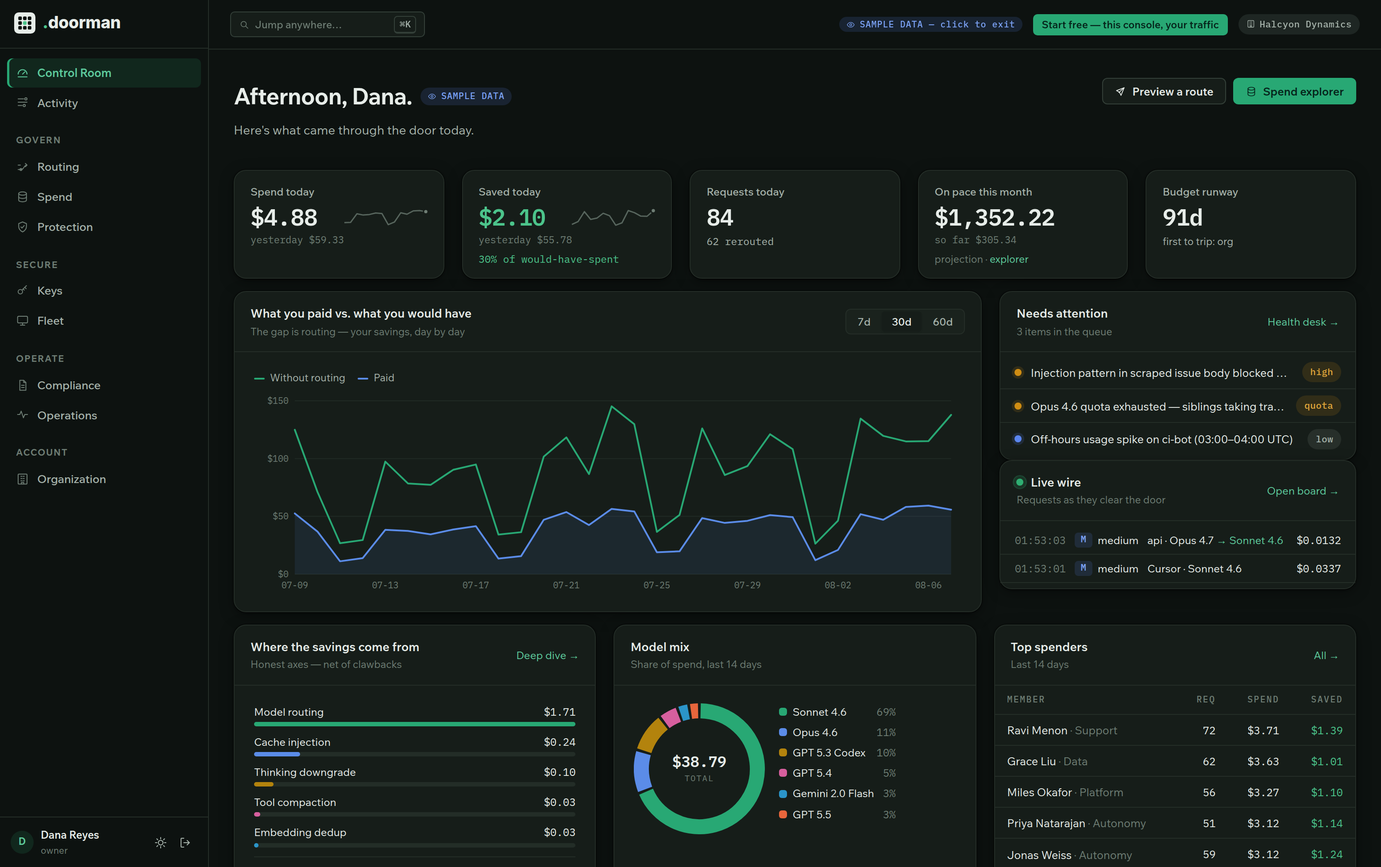
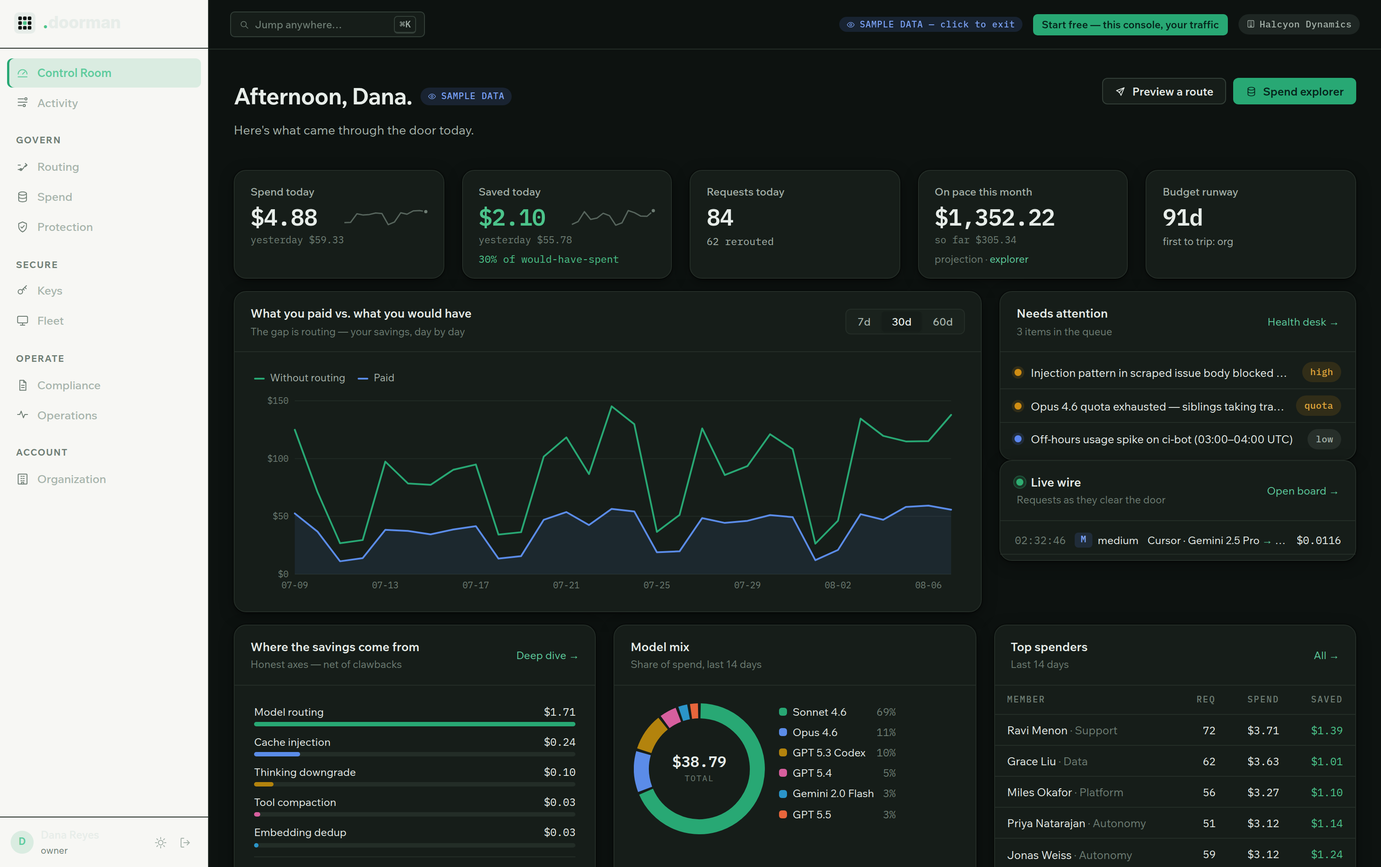
grey rail, white content

Changed region(s): [[0.0, 0.0, 0.1554, 1.0], [0.7462, 0.6224, 0.9016, 0.6847], [0.9327, 0.6536, 0.9638, 0.6847]]

diff --git a/assets/index-Cmy8_mK4.css b/assets/index-Cmy8_mK4.css
@@ -1,0 +1,1 @@
+:root{--bg:#fff;--surface:#fff;--surface-2:#fcfcfa;--surface-3:#f3f3f0;--ink:#18201b;--ink-2:#565b53;--ink-3:#878c84;--line:#e6e6e3;--line-2:#d2d3cf;--shadow:0 0 0 1px #14181408, 0 1px 3px #1418140f, 0 10px 28px #14181412;--shadow-lg:0 4px 12px #14181417, 0 16px 48px #14181424;--brand:#193d2b;--brand-ink:#24563c;--brand-hover:#24563c;--brand-soft:#193d2b14;--brand-ring:#193d2b59;--on-brand:#eaf7ef;--ok:#1e8a55;--ok-mark:#22a061;--ok-soft:#1e8a551f;--warn:#b66a10;--warn-mark:#cf8514;--warn-soft:#b66a1021;--danger:#c43c35;--danger-mark:#d2493f;--danger-soft:#c43c351c;--info:#175cd3;--info-mark:#2970ff;--info-soft:#2970ff1a;--neutral-soft:#4f5a5417;--s1:#0b7a50;--s2:#2f6bc4;--s3:#b98104;--s4:#c13d7f;--s5:#0e87b0;--s6:#d9481f;--s7:#7053d6;--s8:#6b7f1f;--seq-1:#5eb98e;--seq-2:#3aa578;--seq-3:#1c9063;--seq-4:#0b7a50;--seq-5:#086044;--seq-6:#064a35;--seq-7:#053827;--grid:#ecefeb;--axis:#d3d9d2;--tick:#909a93;--font-display:"Wix Madefor Text", -apple-system, BlinkMacSystemFont, system-ui, sans-serif;--font-body:"Wix Madefor Text", -apple-system, BlinkMacSystemFont, "Segoe UI", sans-serif;--font-mono:"IBM Plex Mono", ui-monospace, "SF Mono", Menlo, monospace;--r-sm:6px;--r-md:10px;--r-lg:14px;--sidebar-w:236px;--topbar-h:56px;--ease:cubic-bezier(.2, .7, .3, 1);--lightningcss-light:initial;--lightningcss-dark: ;color-scheme:light}[data-theme=night]{--bg:#0d1210;--surface:#161d19;--surface-2:#1a221d;--surface-3:#232d27;--ink:#e7ede9;--ink-2:#a6b3ab;--ink-3:#6e7d74;--line:#242d27;--line-2:#333f38;--shadow:0 0 0 1px #00000040, 0 1px 2px #0006, 0 4px 16px #00000059;--shadow-lg:0 4px 12px #00000080, 0 16px 48px #0000008c;--brand:#28a874;--brand-ink:#5ecb9d;--brand-hover:#31b57f;--brand-soft:#28a87424;--brand-ring:#28a87473;--on-brand:#05231a;--ok:#4cc48b;--ok-mark:#2fae72;--ok-soft:#2fae7229;--warn:#e0a63a;--warn-mark:#cf8d13;--warn-soft:#cf8d1326;--danger:#f07b6e;--danger-mark:#e05a4b;--danger-soft:#e05a4b26;--info:#7ba2f5;--info-mark:#5b86ef;--info-soft:#5b86ef26;--neutral-soft:#a6b3ab1f;--s1:#28a874;--s2:#5b8ce8;--s3:#b3830d;--s4:#d75f9e;--s5:#2b95c9;--s6:#e8663c;--s7:#8f7ae8;--s8:#8a9b35;--seq-1:#1e5f45;--seq-2:#277756;--seq-3:#319068;--seq-4:#3da87a;--seq-5:#55bd90;--seq-6:#7fd0aa;--seq-7:#abe2c7;--grid:#202a24;--axis:#333f38;--tick:#6e7d74;--lightningcss-light: ;--lightningcss-dark:initial;color-scheme:dark}*{box-sizing:border-box}html,body{height:100%;margin:0;padding:0}body{background:var(--bg);color:var(--ink);font-family:var(--font-body);-webkit-font-smoothing:antialiased;text-rendering:optimizelegibility;font-size:13px;line-height:1.5}#root{min-height:100vh}::selection{background:#1e8a552e}a{color:var(--brand-ink);text-decoration:none}a:hover{text-underline-offset:2px;text-decoration:underline}:focus-visible{outline:2px solid var(--brand-ring);outline-offset:2px;border-radius:4px}::-webkit-scrollbar{width:10px;height:10px}::-webkit-scrollbar-thumb{background:var(--line-2);border:2px solid var(--bg);border-radius:6px}::-webkit-scrollbar-track{background:0 0}@media (prefers-reduced-motion:reduce){*,:before,:after{transition-duration:.01ms!important;animation-duration:.01ms!important}}.h-display{font-family:var(--font-display);letter-spacing:-.02em;font-weight:700;line-height:1.12}h1,.h1{font-family:var(--font-display);letter-spacing:-.024em;margin:0;font-size:26px;font-weight:700}h2,.h2{font-family:var(--font-display);letter-spacing:-.01em;margin:0;font-size:16px;font-weight:600}h3,.h3{font-family:var(--font-body);margin:0;font-size:13.5px;font-weight:600}.overline{font-family:var(--font-mono);text-transform:uppercase;letter-spacing:.14em;color:var(--ink-3);font-size:10.5px;font-weight:500}.muted{color:var(--ink-2)}.faint{color:var(--ink-3)}.small{font-size:12px}.tiny{font-size:11px}.mono{font-family:var(--font-mono)}.num{font-family:var(--font-mono);font-variant-numeric:tabular-nums}.right{text-align:right}.center{text-align:center}.nowrap{white-space:nowrap}.ellipsis{text-overflow:ellipsis;white-space:nowrap;overflow:hidden}.pos{color:var(--ok)}.neg{color:var(--danger)}.brand-ink{color:var(--brand-ink)}.row{align-items:center;display:flex}.col{flex-direction:column;display:flex}.wrap{flex-wrap:wrap}.flex1{flex:auto;min-width:0}.gap2{gap:2px}.gap4{gap:4px}.gap6{gap:6px}.gap8{gap:8px}.gap10{gap:10px}.gap12{gap:12px}.gap16{gap:16px}.gap20{gap:20px}.gap24{gap:24px}.between{justify-content:space-between}.end{justify-content:flex-end}.top{align-items:flex-start}.baseline{align-items:baseline}.grid{gap:20px;display:grid}.grid.cols-2{grid-template-columns:repeat(2,minmax(0,1fr))}.grid.cols-3{grid-template-columns:repeat(3,minmax(0,1fr))}.grid.cols-4{grid-template-columns:repeat(4,minmax(0,1fr))}.grid.cols-5{grid-template-columns:repeat(5,minmax(0,1fr))}.grid.cols-6{grid-template-columns:repeat(6,minmax(0,1fr))}@media (width<=1280px){.grid.cols-4,.grid.cols-5,.grid.cols-6{grid-template-columns:repeat(3,minmax(0,1fr))}}@media (width<=980px){.grid.cols-3,.grid.cols-4,.grid.cols-5,.grid.cols-6{grid-template-columns:repeat(2,minmax(0,1fr))}}@media (width<=680px){.grid.cols-2,.grid.cols-3,.grid.cols-4,.grid.cols-5,.grid.cols-6{grid-template-columns:1fr}}.shell{min-height:100vh;display:flex}.sidebar{width:var(--sidebar-w);flex:0 0 var(--sidebar-w);border-right:1px solid var(--line);z-index:30;background:#f7f7f4;flex-direction:column;height:100vh;display:flex;position:sticky;top:0}.sidebar-head{border-bottom:1px solid var(--line);padding:14px 16px 10px}.sidebar-nav{flex:1;padding:10px 8px 16px;overflow-y:auto}.sidebar-foot{border-top:1px solid var(--line);padding:10px 12px}.nav-group{margin-bottom:4px}.nav-group-label{font-family:var(--font-mono);text-transform:uppercase;letter-spacing:.16em;color:var(--ink-3);-webkit-user-select:none;user-select:none;padding:10px 10px 4px;font-size:10px;font-weight:500}.nav-item{border-radius:var(--r-sm);color:var(--ink-2);cursor:pointer;text-align:left;width:100%;transition:background .12s var(--ease), color .12s var(--ease);background:0 0;border:none;align-items:center;gap:9px;margin:1px 0;padding:6px 10px;font-size:13px;font-weight:450;text-decoration:none;display:flex}.nav-item:hover{background:var(--surface-3);color:var(--ink);text-decoration:none}.nav-item.active{background:var(--brand-soft);color:var(--brand-ink);box-shadow:inset 2.5px 0 0 var(--brand);font-weight:550}.nav-item.active .nav-ico{color:var(--brand-ink)}.nav-ico{width:15px;height:15px;color:var(--ink-3);flex:0 0 15px;display:inline-flex}.nav-badge{font-family:var(--font-mono);background:var(--surface-3);color:var(--ink-3);border-radius:99px;margin-left:auto;padding:1px 6px;font-size:10px}.topbar{height:var(--topbar-h);border-bottom:1px solid var(--line);background:color-mix(in srgb, var(--bg) 88%, transparent);-webkit-backdrop-filter:blur(8px);backdrop-filter:blur(8px);z-index:20;align-items:center;gap:12px;padding:0 24px;display:flex;position:sticky;top:0}.subnav{border-bottom:1px solid var(--line);background:var(--surface);scrollbar-width:none;align-items:center;gap:2px;padding:0 24px;display:flex;overflow-x:auto}.subnav::-webkit-scrollbar{display:none}.subnav a{color:var(--ink-2);white-space:nowrap;border-bottom:2px solid #0000;margin-bottom:-1px;padding:9px 12px;font-size:12.5px;font-weight:500;text-decoration:none;transition:color .12s}.subnav a:hover{color:var(--ink);text-decoration:none}.subnav a.on{color:var(--brand-ink);border-bottom-color:var(--brand);font-weight:600}.main{flex-direction:column;flex:1;min-width:0;display:flex}.page{width:100%;max-width:1480px;margin:0 auto;padding:32px 28px 44px}.page-header{margin-bottom:20px}.page-title-row{flex-wrap:wrap;justify-content:space-between;align-items:flex-start;gap:16px;display:flex}.page-desc{color:var(--ink-2);max-width:760px;margin-top:6px;font-size:14px;line-height:1.6}.card{background:var(--surface);border:1px solid var(--line);border-radius:var(--r-lg);box-shadow:var(--shadow)}.card-pad{padding:20px 22px}.card-head{border-bottom:1px solid var(--line);justify-content:space-between;align-items:center;gap:12px;padding:13px 18px;display:flex}.card-head .select{width:auto;min-width:132px}.card-head .input{width:auto}.card-title{font-family:var(--font-display);letter-spacing:0;font-size:13.5px;font-weight:600}.card-sub{color:var(--ink-3);margin-top:1px;font-size:11.5px}.well{background:var(--surface-2);border:1px solid var(--line);border-radius:var(--r-md);padding:12px 14px}.stat{min-width:0;padding:14px 18px 12px}.stat-label{color:var(--ink-2);align-items:center;gap:6px;font-size:12px;font-weight:450;display:flex}.stat-value{font-family:var(--font-mono);letter-spacing:-.02em;color:var(--ink);margin-top:4px;font-size:26px;font-weight:600;line-height:1.2}.stat-value .unit{color:var(--ink-3);font-size:15px;font-weight:450}.stat-delta{align-items:center;gap:6px;margin-top:3px;font-size:11.5px;display:flex}.hero-num{font-family:var(--font-mono);letter-spacing:-.03em;font-size:48px;font-weight:600;line-height:1.05}.btn{font-family:var(--font-body);border-radius:var(--r-sm);cursor:pointer;white-space:nowrap;transition:background .12s var(--ease), border-color .12s var(--ease), color .12s var(--ease), transform 60ms;-webkit-user-select:none;user-select:none;border:1px solid #0000;justify-content:center;align-items:center;gap:7px;padding:6px 13px;font-size:12.5px;font-weight:550;text-decoration:none;display:inline-flex}.btn:active{transform:translateY(.5px)}.btn:disabled{opacity:.5;cursor:not-allowed}.btn-primary{background:var(--brand);color:var(--on-brand)}.btn-primary:hover{background:var(--brand-hover)}.btn-secondary{background:var(--surface);color:var(--ink);border-color:var(--line-2)}.btn-secondary:hover{background:var(--surface-3)}.btn-ghost{color:var(--ink-2);background:0 0}.btn-ghost:hover{background:var(--surface-3);color:var(--ink)}.btn-danger{color:var(--danger);border-color:color-mix(in srgb, var(--danger-mark) 45%, transparent);background:0 0}.btn-danger:hover{background:var(--danger-soft)}.btn-sm{border-radius:5px;padding:3.5px 9px;font-size:11.5px}.btn-lg{border-radius:var(--r-md);padding:9px 20px;font-size:13.5px}.iconbtn{border-radius:var(--r-sm);width:28px;height:28px;color:var(--ink-2);cursor:pointer;background:0 0;border:none;justify-content:center;align-items:center;display:inline-flex}.iconbtn:hover{background:var(--surface-3);color:var(--ink)}.badge{font-family:var(--font-mono);letter-spacing:.02em;white-space:nowrap;border:1px solid #0000;border-radius:99px;align-items:center;gap:5px;padding:2px 8px;font-size:10.5px;font-weight:500;display:inline-flex}.badge.ok{background:var(--ok-soft);color:var(--ok)}.badge.warn{background:var(--warn-soft);color:var(--warn)}.badge.danger{background:var(--danger-soft);color:var(--danger)}.badge.info{background:var(--info-soft);color:var(--info)}.badge.neutral{background:var(--neutral-soft);color:var(--ink-2)}.badge.brand{background:var(--brand-soft);color:var(--brand-ink)}.badge.outline{border-color:var(--line-2);color:var(--ink-2);background:0 0}.lamp{border-radius:99px;flex:0 0 8px;width:8px;height:8px;position:relative}.lamp.ok{background:var(--ok-mark);box-shadow:0 0 0 3px var(--ok-soft)}.lamp.warn{background:var(--warn-mark);box-shadow:0 0 0 3px var(--warn-soft)}.lamp.danger{background:var(--danger-mark);box-shadow:0 0 0 3px var(--danger-soft)}.lamp.info{background:var(--info-mark);box-shadow:0 0 0 3px var(--info-soft)}.lamp.neutral{background:var(--ink-3);box-shadow:0 0 0 3px var(--neutral-soft)}.lamp.pulse:after{content:"";opacity:0;border:1.5px solid;border-radius:99px;animation:2.2s ease-out infinite lampPulse;position:absolute;inset:-3px}.lamp.ok.pulse:after{color:var(--ok-mark)}.lamp.danger.pulse:after{color:var(--danger-mark)}@keyframes lampPulse{0%{opacity:.7;transform:scale(.6)}70%{opacity:0;transform:scale(1.5)}to{opacity:0}}.tier-plate{font-family:var(--font-mono);letter-spacing:.02em;border:1px solid #0000;border-radius:4px;justify-content:center;align-items:center;width:20px;height:17px;font-size:10px;font-weight:600;display:inline-flex}.tier-plate.simple{background:var(--neutral-soft);color:var(--ink-2)}.tier-plate.medium{background:var(--info-soft);color:var(--info)}.tier-plate.complex{background:var(--warn-soft);color:var(--warn)}.tier-plate.max{background:var(--danger-soft);color:var(--danger)}.table-wrap{border-radius:0 0 var(--r-lg) var(--r-lg);overflow-x:auto}table.tbl{border-collapse:collapse;width:100%;font-size:12.5px}.tbl thead th{font-family:var(--font-mono);text-transform:uppercase;letter-spacing:.12em;color:var(--ink-3);text-align:left;border-bottom:1px solid var(--line);white-space:nowrap;background:var(--surface);z-index:1;padding:8px 14px;font-size:10px;font-weight:500;position:sticky;top:0}.tbl thead th.sortable{cursor:pointer;-webkit-user-select:none;user-select:none}.tbl thead th.sortable:hover{color:var(--ink)}.tbl tbody td{border-bottom:1px solid var(--line);vertical-align:middle;padding:7px 14px}.tbl tbody tr:last-child td{border-bottom:none}.tbl tbody tr{transition:background 90ms}.tbl tbody tr:hover{background:var(--surface-2)}.tbl tbody tr.clickable{cursor:pointer}.tbl .num{font-size:12px}.tbl-empty{text-align:center;color:var(--ink-3);padding:32px}.field{flex-direction:column;gap:5px;min-width:0;display:flex}.field-label{color:var(--ink);align-items:center;gap:6px;font-size:12px;font-weight:550;display:flex}.field-hint{color:var(--ink-3);font-size:11.5px}.input,.select,textarea.input{font-family:var(--font-body);color:var(--ink);background:var(--surface);border:1px solid var(--line-2);border-radius:var(--r-sm);width:100%;padding:7px 10px;font-size:13px;transition:border-color .12s,box-shadow .12s}.input.mono{font-family:var(--font-mono);font-size:12.5px}.input:focus,.select:focus,textarea.input:focus{border-color:var(--brand);box-shadow:0 0 0 3px var(--brand-soft);outline:none}.input::placeholder{color:var(--ink-3)}.select{appearance:none;background-image:linear-gradient(45deg, transparent 50%, var(--ink-3) 50%), linear-gradient(135deg, var(--ink-3) 50%, transparent 50%);background-position:calc(100% - 16px) 55%,calc(100% - 11px) 55%;background-repeat:no-repeat;background-size:5px 5px;padding-right:28px}.toggle{background:var(--line-2);cursor:pointer;width:34px;height:19px;transition:background .14s var(--ease);border:none;border-radius:99px;flex:0 0 34px;position:relative}.toggle:after{content:"";background:var(--surface);width:15px;height:15px;transition:transform .14s var(--ease);border-radius:99px;position:absolute;top:2px;left:2px;box-shadow:0 1px 2px #00000040}.toggle.on{background:var(--brand)}.toggle.on:after{transform:translate(15px)}.toggle:disabled{opacity:.5;cursor:not-allowed}.seg{background:var(--surface-2);border:1px solid var(--line);border-radius:var(--r-sm);gap:2px;padding:2px;display:inline-flex}.seg button{font-family:var(--font-body);color:var(--ink-2);cursor:pointer;background:0 0;border:none;border-radius:4px;padding:4px 11px;font-size:12px;font-weight:500;transition:background .12s,color .12s}.seg button.on{background:var(--surface);color:var(--ink);box-shadow:0 1px 2px #00000014}.seg button:hover:not(.on){color:var(--ink)}.modal-backdrop{-webkit-backdrop-filter:blur(2px);backdrop-filter:blur(2px);z-index:100;animation:fadeIn .14s var(--ease);background:#14120e73;justify-content:center;align-items:flex-start;padding:8vh 20px 20px;display:flex;position:fixed;inset:0}.modal{background:var(--surface);border:1px solid var(--line);border-radius:var(--r-lg);box-shadow:var(--shadow-lg);width:100%;max-width:560px;max-height:82vh;animation:riseIn .16s var(--ease);flex-direction:column;display:flex;overflow:hidden}.modal.wide{max-width:860px}.modal-body{padding:18px;overflow-y:auto}.modal-foot{border-top:1px solid var(--line);justify-content:flex-end;gap:8px;padding:12px 18px;display:flex}.drawer-backdrop{z-index:100;animation:fadeIn .14s var(--ease);background:#14120e59;position:fixed;inset:0}.drawer{z-index:101;background:var(--surface);border-left:1px solid var(--line);width:min(560px,92vw);box-shadow:var(--shadow-lg);animation:slideIn .18s var(--ease);flex-direction:column;display:flex;position:fixed;top:0;bottom:0;right:0}.drawer-body{flex:1;padding:18px;overflow-y:auto}@keyframes fadeIn{0%{opacity:0}}@keyframes riseIn{0%{opacity:0;transform:translateY(10px)scale(.99)}}@keyframes slideIn{0%{opacity:.5;transform:translate(24px)}}.toast-stack{z-index:200;flex-direction:column;gap:8px;display:flex;position:fixed;bottom:18px;right:18px}.toast{background:var(--ink);color:var(--bg);border-radius:var(--r-md);box-shadow:var(--shadow-lg);max-width:380px;animation:riseIn .16s var(--ease);align-items:center;gap:10px;padding:10px 14px;font-size:12.5px;font-weight:500;display:flex}.toast.err{background:var(--danger-mark);color:#fff}.banner{border-radius:var(--r-md);border:1px solid;align-items:center;gap:10px;padding:8px 14px;font-size:12.5px;display:flex}.banner.warn{background:var(--warn-soft);border-color:color-mix(in srgb, var(--warn-mark) 35%, transparent);color:var(--warn)}.banner.info{background:var(--info-soft);border-color:color-mix(in srgb, var(--info-mark) 30%, transparent);color:var(--info)}.banner.danger{background:var(--danger-soft);border-color:color-mix(in srgb, var(--danger-mark) 32%, transparent);color:var(--danger)}.skl{background:linear-gradient(100deg, var(--surface-2) 40%, var(--surface-3) 50%, var(--surface-2) 60%);border-radius:var(--r-sm);background-size:200% 100%;min-height:12px;animation:1.4s linear infinite shimmer}@keyframes shimmer{to{background-position:-200% 0}}.empty{text-align:center;color:var(--ink-2);flex-direction:column;justify-content:center;align-items:center;gap:8px;padding:44px 24px;display:flex}.empty svg{opacity:.5}.empty .empty-title{font-family:var(--font-display);color:var(--ink);font-size:14px;font-weight:600}.meter{background:var(--surface-3);border-radius:99px;height:6px;position:relative;overflow:hidden}.meter>i{background:var(--brand);height:100%;transition:width .4s var(--ease);border-radius:99px;display:block}.meter.ok>i{background:var(--ok-mark)}.meter.warn>i{background:var(--warn-mark)}.meter.danger>i{background:var(--danger-mark)}.meter .tick{background:var(--surface);opacity:.9;width:1.5px;position:absolute;top:0;bottom:0}.stat-prev{color:var(--ink-3);font-size:11px;font-family:var(--font-mono);margin-top:2px}.code{font-family:var(--font-mono);background:var(--surface-2);border:1px solid var(--line);border-radius:var(--r-md);white-space:pre;padding:12px 14px;font-size:12px;line-height:1.6;position:relative;overflow-x:auto}kbd{font-family:var(--font-mono);border:1px solid var(--line-2);background:var(--surface);color:var(--ink-2);border-bottom-width:2px;border-radius:4px;padding:1.5px 5px;font-size:10.5px}.tabs{border-bottom:1px solid var(--line);gap:2px;margin-bottom:16px;display:flex;overflow-x:auto}.tabs button{font-family:var(--font-body);color:var(--ink-2);cursor:pointer;white-space:nowrap;background:0 0;border:none;border-bottom:2px solid #0000;margin-bottom:-1px;padding:8px 13px;font-size:12.5px;font-weight:500;transition:color .12s}.tabs button:hover{color:var(--ink)}.tabs button.on{color:var(--brand-ink);border-bottom-color:var(--brand);font-weight:600}.kv{grid-template-columns:minmax(120px,max-content) 1fr;gap:6px 18px;font-size:12.5px;display:grid}.kv dt{color:var(--ink-3)}.kv dd{color:var(--ink);overflow-wrap:anywhere;min-width:0;margin:0}.palette-backdrop{z-index:150;background:#14120e66;justify-content:center;align-items:flex-start;padding-top:14vh;animation:.1s fadeIn;display:flex;position:fixed;inset:0}.palette{background:var(--surface);border:1px solid var(--line);border-radius:var(--r-lg);width:min(600px,92vw);box-shadow:var(--shadow-lg);animation:riseIn .13s var(--ease);overflow:hidden}.palette input{width:100%;font-family:var(--font-body);color:var(--ink);border:none;border-bottom:1px solid var(--line);background:0 0;outline:none;padding:14px 18px;font-size:14.5px}.palette-list{max-height:46vh;padding:6px;overflow-y:auto}.palette-item{border-radius:var(--r-sm);cursor:pointer;color:var(--ink-2);align-items:center;gap:10px;padding:8px 12px;font-size:13px;display:flex}.palette-item.hot{background:var(--brand-soft);color:var(--brand-ink)}.palette-item .crumb{font-family:var(--font-mono);color:var(--ink-3);margin-left:auto;font-size:10px}.viztip{z-index:300;pointer-events:none;background:var(--ink);color:var(--bg);box-shadow:var(--shadow-lg);border-radius:7px;max-width:300px;padding:7px 10px;font-size:11.5px;line-height:1.45;position:fixed}.viztip .tt-title{font-family:var(--font-mono);opacity:.7;margin-bottom:3px;font-size:10px}.viztip .tt-row{justify-content:space-between;align-items:center;gap:6px;display:flex}.viztip .tt-row .num{font-family:var(--font-mono)}.viztip .sw{border-radius:2px;flex:0 0 7px;width:7px;height:7px;display:inline-block}.legend{color:var(--ink-2);flex-wrap:wrap;gap:4px 14px;font-size:11.5px;display:flex}.legend .lg-item{cursor:default;align-items:center;gap:6px;display:inline-flex}.legend .sw{border-radius:3px;width:9px;height:9px;display:inline-block}.legend .lg-line{border-radius:2px;width:12px;height:2px;display:inline-block}.steps{align-items:center;gap:8px;display:flex}.step{color:var(--ink-3);align-items:center;gap:8px;font-size:12px;display:flex}.step .dot{width:20px;height:20px;font-family:var(--font-mono);border:1px solid var(--line-2);background:var(--surface);border-radius:99px;justify-content:center;align-items:center;font-size:10.5px;display:inline-flex}.step.done .dot{background:var(--ok-soft);color:var(--ok);border-color:#0000}.step.now{color:var(--ink);font-weight:550}.step.now .dot{background:var(--brand);color:var(--on-brand);border-color:#0000}.step-rail{background:var(--line-2);width:22px;height:1px}.nobackend{font-family:var(--font-mono);background:repeating-linear-gradient(-45deg, var(--warn-soft), var(--warn-soft) 6px, transparent 6px, transparent 10px);border:1px dashed var(--warn-mark);color:var(--warn);letter-spacing:.04em;border-radius:6px;align-items:center;gap:6px;padding:3px 9px;font-size:10.5px;font-weight:600;display:inline-flex}.samplechip{font-family:var(--font-mono);background:var(--info-soft);color:var(--info);letter-spacing:.05em;border-radius:99px;align-items:center;gap:5px;padding:2px 8px;font-size:10px;font-weight:500;display:inline-flex}.auth-wrap{grid-template-columns:minmax(420px,44%) 1fr;min-height:100vh;display:grid}@media (width<=900px){.auth-wrap{grid-template-columns:1fr}.auth-art{display:none}}.auth-panel{background:var(--surface);border-right:1px solid var(--line);flex-direction:column;padding:28px 48px;display:flex}.auth-art{background:var(--bg);position:relative;overflow:hidden}.auth-card{width:100%;max-width:360px;margin:auto}.feed-row{animation:feedIn .26s var(--ease)}@keyframes feedIn{0%{opacity:0;background:var(--brand-soft);transform:translateY(-6px)}}.diff-line{font-family:var(--font-mono);white-space:pre-wrap;overflow-wrap:anywhere;padding:1px 10px;font-size:11.5px}.diff-line.add{background:var(--ok-soft);color:var(--ok)}.diff-line.del{background:var(--danger-soft);color:var(--danger)}.diff-line.ctx{color:var(--ink-3)}.lpl{--l-bg:#fff;--l-surface:#fcfcfa;--l-raised:#fff;--l-ink:#18201b;--l-mut:#4d524b;--l-soft:#878c84;--l-line:#1418121a;--l-line-strong:#14181229;--l-forest:#193d2b;--l-forest-2:#24563c;--l-protected:#1e8a55;--l-shadow:0 28px 80px #1b2a2033, 0 3px 12px #1b2a201f;min-height:100vh;color:var(--l-ink);--ink:#193d2b;--bg:#fff;--brand:#7ee2b0;background:radial-gradient(circle at 90% 20%,#1e8a550d,#1e8a5500 36%),#fff;font-family:Wix Madefor Text,-apple-system,BlinkMacSystemFont,Segoe UI,sans-serif;font-size:16px;font-weight:400;line-height:1.5;overflow-x:hidden}.lpl-wrap{max-width:1280px;margin:0 auto;padding-left:24px;padding-right:24px}.lpl-white{color:var(--l-ink)}.lpl-nav{z-index:60;-webkit-backdrop-filter:blur(24px)saturate(140%);backdrop-filter:blur(24px)saturate(140%);border-bottom:1px solid var(--l-line);background:#ffffffd9;height:73px;position:fixed;top:0;left:0;right:0}.lpl-nav-in{justify-content:space-between;align-items:center;height:73px;display:flex}.lpl-nav-links{align-items:center;gap:26px;display:flex}.lpl-nav-links a,.lpl-ghostlink{color:var(--l-mut);cursor:pointer;background:0 0;border:none;padding:0;font-family:inherit;font-size:13px;text-decoration:none}.lpl-nav-links a:hover,.lpl-ghostlink:hover{color:var(--l-ink);text-decoration:none}.lpl-pill{background:var(--l-forest);color:#eaf7ef;cursor:pointer;transition:background .12s var(--ease);border:none;border-radius:9999px;padding:8px 16px;font-family:inherit;font-size:13px;font-weight:500;box-shadow:0 4px 12px #193d2b40}.lpl-pill:hover{background:var(--l-forest-2)}.lpl-pill:disabled{opacity:.6;cursor:default}.lpl-ghost{background:var(--l-raised);color:var(--l-ink);border:1px solid var(--l-line-strong);cursor:pointer;transition:border-color .12s var(--ease);border-radius:9999px;padding:8px 16px;font-family:inherit;font-size:13px;font-weight:500}.lpl-ghost:hover{border-color:#193d2b73}.lpl-pill-lg{padding:12px 22px;font-size:15px}.lpl-hero{padding-top:268px}.lpl-hero h1{letter-spacing:-.022em;color:var(--l-ink);margin:0 0 40px;font-size:clamp(44px,4.6vw,64px);font-weight:700;line-height:1}.lpl-hero-row{flex-wrap:wrap;justify-content:space-between;align-items:baseline;gap:24px;display:flex}.lpl-sub{color:var(--l-mut);max-width:56ch;margin:0;font-size:17px;line-height:1.5}.lpl-newlink{cursor:pointer;color:var(--l-mut);white-space:nowrap;background:0 0;border:none;padding:0;font-family:inherit;font-size:15px}.lpl-newlink:hover{color:var(--l-forest-2)}.lpl-window-wrap{margin-top:64px}.lpl-window{background:var(--l-raised);border:1px solid var(--l-line-strong);box-shadow:var(--l-shadow);border-radius:14px;overflow:hidden}.lpl-window img{width:100%;height:auto;display:block}.lpl-state{padding-top:160px}.lpl-state h2{letter-spacing:-.022em;color:var(--l-mut);text-wrap:balance;max-width:1250px;margin:0 0 48px;font-size:clamp(32px,3.4vw,48px);font-weight:700;line-height:1.08}.lpl-cards{grid-template-columns:1fr 1fr;align-items:start;gap:20px;display:grid}@media (width<=860px){.lpl-cards{grid-template-columns:1fr}}.lpl-card{background:var(--l-raised);border:1px solid var(--l-line);border-radius:14px;overflow:hidden;box-shadow:0 12px 40px #1b2a201a}.lpl-card img{width:100%;height:auto;display:block}.lpl-card-cap{color:var(--l-mut);border-top:1px solid var(--l-line);padding:14px 18px;font-size:13px}.lpl-card-full{max-width:100%}.lpl-play{background:var(--l-raised);border:1px solid var(--l-line);border-radius:14px;padding:16px 18px;box-shadow:0 12px 40px #1b2a201a}.lpl-play-in{flex-wrap:wrap;gap:12px;display:flex}.lpl-play-in input{background:var(--l-surface);min-width:240px;color:var(--l-ink);border:1px solid var(--l-line-strong);border-radius:10px;flex:1;padding:10px 14px;font-family:inherit;font-size:14px}.lpl-play-in input:focus{border-color:var(--l-protected);outline:none}.lpl-play-out{border-top:1px solid var(--l-line);color:var(--l-mut);margin-top:14px;padding-top:14px;font-size:15px}.lpl-statsband{background:linear-gradient(140deg, var(--l-forest) 0%, #143122 70%);box-shadow:var(--l-shadow);border:none;border-radius:18px;grid-template-columns:repeat(3,1fr);gap:20px;margin-top:160px;padding:44px 46px;display:grid}@media (width<=700px){.lpl-statsband{grid-template-columns:1fr}}.lpl-stat{letter-spacing:-.022em;color:#f2faf5;font-size:48px;font-weight:700;line-height:1.1}.lpl-statl{color:#b9d5c4;margin-top:6px;font-size:13px}.lpl-cta{padding-top:140px;padding-bottom:120px}.lpl-cta h2{letter-spacing:-.022em;margin:0 0 32px;font-size:clamp(32px,3.4vw,48px);font-weight:510;line-height:1.08}.lpl-cta-row{flex-wrap:wrap;gap:12px;display:flex}.lpl-footer{border-top:1px solid var(--l-line);flex-wrap:wrap;justify-content:space-between;align-items:center;gap:16px;padding-top:24px;padding-bottom:40px;display:flex}.lpl-nav-left{align-items:center;gap:30px;display:flex}.lpl-nav-menus{gap:6px}.lpl-menu{position:relative}.lpl-menubtn{cursor:pointer;color:var(--l-mut);background:0 0;border:none;border-radius:8px;align-items:center;gap:5px;padding:8px 10px;font-family:inherit;font-size:13px;text-decoration:none;display:inline-flex}.lpl-menubtn:hover,.lpl-menubtn.on{color:var(--l-ink);background:#18201b0f;text-decoration:none}.lpl-caret{opacity:.7;font-size:9px}.lpl-menupanel{z-index:70;background:var(--l-raised);border:1px solid var(--l-line);border-radius:14px;flex-direction:column;gap:2px;min-width:300px;padding:8px;animation:.12s fadeIn;display:flex;position:absolute;top:40px;left:0;box-shadow:0 24px 70px #1b2a202e}.lpl-menuitem{text-align:left;cursor:pointer;background:0 0;border:none;border-radius:8px;flex-direction:column;gap:1px;padding:9px 12px;font-family:inherit;display:flex}.lpl-menuitem:hover{background:#18201b0f}.lpl-mi-t{color:var(--l-ink);font-size:13.5px;font-weight:500}.lpl-mi-d{color:var(--l-mut);font-size:12px}@media (width<=940px){.lpl-nav-menus{display:none}}.lpl-grid3{grid-template-columns:repeat(3,1fr);gap:16px;display:grid}.lpl-grid4{grid-template-columns:repeat(4,1fr);gap:16px;display:grid}@media (width<=980px){.lpl-grid3,.lpl-grid4{grid-template-columns:repeat(2,1fr)}}@media (width<=640px){.lpl-grid3,.lpl-grid4{grid-template-columns:1fr}}.lpl-tile{background:var(--l-raised);border:1px solid var(--l-line);border-radius:14px;flex-direction:column;gap:8px;padding:20px 22px;display:flex;box-shadow:0 8px 30px #1b2a2012}.lpl-tile-t{color:var(--l-ink);letter-spacing:-.01em;font-size:15px;font-weight:600}.lpl-tile-d{color:var(--l-mut);font-size:13.5px;line-height:1.55}.lpl-pricing{align-items:stretch}.lpl-price{gap:6px}.lpl-price .lpl-pill,.lpl-price .lpl-ghost{align-self:flex-start;margin-top:auto}.lpl-price.hot{border-color:#193d2b73;box-shadow:0 16px 50px #1b2a2029}.lpl-price-n{letter-spacing:-.022em;color:var(--l-ink);font-size:34px;font-weight:700;line-height:1.1}.lpl-price-per{color:var(--l-mut);margin-bottom:6px;font-size:12px}.lpl-fineline{color:var(--l-mut);margin-top:16px;font-size:12.5px}.lpl-burger{border:1px solid var(--l-line-strong);background:var(--l-raised);cursor:pointer;border-radius:8px;flex-direction:column;justify-content:center;align-items:center;gap:4px;width:34px;height:34px;padding:0;display:none}.lpl-burger i{background:var(--l-ink);border-radius:1px;width:16px;height:2px;display:block}@media (width<=940px){.lpl-burger{display:inline-flex}}.lpl-sheet{z-index:59;background:var(--l-bg);flex-direction:column;padding:18px 24px 32px;display:none;position:fixed;inset:73px 0 0;overflow-y:auto}@media (width<=940px){.lpl-sheet{display:flex}}.lpl-sheet button{text-align:left;color:var(--l-ink);border:none;border-bottom:1px solid var(--l-line);cursor:pointer;background:0 0;padding:14px 8px;font-size:17px}.lpl-sheet .lpl-pill{text-align:center;background:var(--l-forest);color:#eaf7ef;border-bottom:none;margin-top:16px;font-size:15px}.lpl-cta-snip{align-items:stretch;gap:10px;max-width:640px;margin:6px 0 10px;display:flex}.lpl-cta-snip .lpl-snip{text-align:left;flex:1;padding:14px 16px;font-size:12px}.lpl-cta-copy{white-space:nowrap;align-self:center}@media (width<=640px){.lpl-cta-snip{flex-direction:column}.lpl-cta-copy{align-self:flex-start}}.ob-or{max-width:520px;color:var(--ink-3);align-items:center;gap:10px;margin:14px 0 12px;font-size:12px;display:flex}.ob-or:before,.ob-or:after{content:"";background:var(--line);flex:1;height:1px}.lpl-doc-toc{flex-wrap:wrap;gap:10px;display:flex}.lpl-doc-toc button{cursor:pointer;background:var(--l-raised);border:1px solid var(--l-line-strong);color:var(--l-ink);border-radius:999px;padding:8px 16px;font-size:13px}.lpl-doc-toc button:hover{border-color:var(--l-forest-2)}.lpl-doc-tabs{border:1px solid var(--l-line-strong);border-radius:8px;margin-bottom:14px;display:inline-flex;overflow:hidden}.lpl-doc-tabs button{background:var(--l-raised);cursor:pointer;color:var(--l-mut);border:none;padding:8px 15px;font-size:12.5px}.lpl-doc-tabs button+button{border-left:1px solid var(--l-line)}.lpl-doc-tabs button.on{background:var(--l-forest);color:#eaf7ef}.lpl-snip{color:#d8e2da;font-family:var(--font-mono);background:#18201b;border-radius:12px;margin:0;padding:18px 20px;font-size:12.5px;line-height:1.65;overflow-x:auto;box-shadow:0 16px 50px #1b2a2024}.lpl-doc-table{border:1px solid var(--l-line);background:var(--l-raised);border-radius:12px;overflow:hidden}.lpl-doc-tr{color:var(--l-ink);grid-template-columns:140px 1.2fr 1fr;gap:16px;padding:11px 18px;font-size:13.5px;display:grid}.lpl-doc-tr.two{grid-template-columns:minmax(240px,1fr) 1.4fr}.lpl-doc-tr+.lpl-doc-tr{border-top:1px solid var(--l-line)}.lpl-doc-th{background:var(--l-surface);text-transform:uppercase;letter-spacing:.06em;color:var(--l-mut);font-size:11.5px}.lpl-doc-th.lpl-doc-tr.two{grid-template-columns:minmax(240px,1fr) 1.4fr}.lpl-doc-mono{font-family:var(--font-mono);color:var(--l-forest-2);font-size:12.5px;font-weight:600}.lpl-doc-guar.lpl-grid4{grid-template-columns:repeat(2,1fr)}@media (width<=680px){.lpl-doc-tr,.lpl-doc-tr.two{grid-template-columns:1fr;gap:4px}.lpl-doc-guar.lpl-grid4{grid-template-columns:1fr}}.lpl-tools{grid-template-columns:repeat(4,1fr);gap:10px;display:grid}.lpl-tool{background:var(--l-raised);border:1px solid var(--l-line);cursor:pointer;font:inherit;text-align:left;border-radius:10px;justify-content:space-between;align-items:center;gap:10px;padding:12px 16px;display:flex}.lpl-tool:hover{border-color:var(--l-forest-2)}.lpl-tool-n{color:var(--l-ink);white-space:nowrap;font-size:13.5px;font-weight:600}.lpl-tool-how{color:var(--l-mut);background:var(--l-surface);border:1px solid var(--l-line);white-space:nowrap;border-radius:6px;padding:2px 8px;font-size:11px}.lpl-tool-how.shadow{color:#b66a10;background:#fff3de;border-color:#b66a1040}@media (width<=980px){.lpl-tools{grid-template-columns:repeat(2,1fr)}}@media (width<=560px){.lpl-tools{grid-template-columns:1fr}}.lpl-roi{background:var(--l-raised);border:1px solid var(--l-line);border-radius:14px;grid-template-columns:1fr 1fr;gap:36px;margin-top:28px;padding:30px 32px;display:grid;box-shadow:0 16px 50px #1b2a201a}.lpl-roi-lab{color:var(--l-mut);justify-content:space-between;align-items:baseline;margin:16px 0 6px;font-size:13px;display:flex}.lpl-roi-val{color:var(--l-ink);font-variant-numeric:tabular-nums;font-weight:600}.lpl-roi input[type=range]{width:100%;accent-color:var(--l-forest)}.lpl-roi-seg{border:1px solid var(--l-line-strong);border-radius:8px;align-self:flex-start;margin-top:18px;display:inline-flex;overflow:hidden}.lpl-roi-seg button{background:var(--l-raised);cursor:pointer;color:var(--l-mut);border:none;padding:7px 14px;font-size:12.5px}.lpl-roi-seg button+button{border-left:1px solid var(--l-line)}.lpl-roi-seg button.on{background:var(--l-forest);color:#eaf7ef}.lpl-roi-l{flex-direction:column;display:flex}.lpl-roi-r{flex-direction:column;justify-content:center;display:flex}.lpl-roi-net{letter-spacing:-.025em;color:var(--l-forest-2);font-variant-numeric:tabular-nums;font-size:44px;font-weight:700;line-height:1}.lpl-roi-net span{color:var(--l-mut);letter-spacing:0;margin-left:4px;font-size:17px;font-weight:500}.lpl-roi-sub{color:var(--l-mut);margin:10px 0 14px;font-size:13.5px;line-height:1.5}.lpl-roi-note{color:var(--l-ink);background:#e8f5ed;border-radius:8px;align-self:flex-start;margin-bottom:14px;padding:8px 12px;font-size:13px}.lpl-roi .lpl-pill{align-self:flex-start}.lpl-roi-fine{color:var(--l-soft);margin-top:12px;font-size:11.5px;line-height:1.5}@media (width<=860px){.lpl-roi{grid-template-columns:1fr}}.lpl-faq{flex-direction:column;display:flex}.lpl-faq details{border-top:1px solid var(--l-line)}.lpl-faq details:last-child{border-bottom:1px solid var(--l-line)}.lpl-faq summary{cursor:pointer;color:var(--l-ink);justify-content:space-between;align-items:center;padding:18px 4px;font-size:15.5px;font-weight:500;list-style:none;display:flex}.lpl-faq summary::-webkit-details-marker{display:none}.lpl-faq summary:after{content:"+";color:var(--l-mut);font-size:18px;font-weight:400}.lpl-faq details[open] summary:after{content:"−"}.lpl-faq p{color:var(--l-mut);max-width:74ch;margin:0 0 18px;padding:0 4px;font-size:14.5px;line-height:1.65}.lpl-bigfoot{border-top:1px solid var(--l-line);background:var(--l-surface);margin-top:140px}.lpl-bigfoot-in{flex-wrap:wrap;justify-content:space-between;gap:40px;padding-top:48px;padding-bottom:36px;display:flex}.lpl-bf-brand{max-width:260px}.lpl-bf-tag{color:var(--l-mut);margin-top:12px;font-size:13px;line-height:1.55}.lpl-bf-cols{flex-wrap:wrap;gap:72px;display:flex}.lpl-bf-cols>div{flex-direction:column;gap:10px;min-width:130px;display:flex}.lpl-bf-h{color:var(--l-ink);letter-spacing:.02em;margin-bottom:4px;font-size:12px;font-weight:600}.lpl-bf-cols a,.lpl-bf-cols button{cursor:pointer;text-align:left;color:var(--l-mut);background:0 0;border:none;padding:0;font-family:inherit;font-size:13px;text-decoration:none}.lpl-bf-cols a:hover,.lpl-bf-cols button:hover{color:var(--l-ink);text-decoration:none}.lpl-bf-legal{border-top:1px solid var(--l-line);color:var(--l-mut);flex-wrap:wrap;justify-content:space-between;gap:16px;padding-top:18px;padding-bottom:30px;font-size:12px;display:flex}.lpl-hero-ctas{flex-wrap:wrap;align-items:center;gap:12px;margin-top:34px;display:flex}.lpl-tile-link{text-align:left;cursor:pointer;transition:border-color .13s var(--ease), box-shadow .13s var(--ease);font-family:inherit}.lpl-tile-link:hover{border-color:#193d2b66;box-shadow:0 14px 44px #1b2a2024}.lpl-tile-go{color:var(--l-mut);margin-top:auto;padding-top:6px;font-size:12.5px;font-weight:500}.lpl-tile-link:hover .lpl-tile-go{color:var(--l-forest-2)}.lpl-tile-cta{cursor:pointer;text-align:left;background:0 0;border:none;padding:6px 0 0;font-family:inherit}.lpl-tile-cta:hover{color:var(--l-ink)}.lpl-platform .lpl-tile{min-height:128px}.lpl-bullets{color:var(--l-mut);flex-direction:column;gap:6px;margin:0;padding-left:16px;font-size:13px;line-height:1.5;display:flex}.lpl-badgeband{flex-wrap:wrap;align-items:center;gap:10px;margin-top:22px;display:flex}.lpl-badgechip{color:var(--l-mut);border:1px solid var(--l-line);background:var(--l-raised);border-radius:99px;padding:5px 12px;font-size:12px;font-weight:500}.lpl-modal-backdrop{z-index:90;-webkit-backdrop-filter:blur(2px);backdrop-filter:blur(2px);background:#18201b59;justify-content:center;align-items:flex-start;padding-top:14vh;animation:.12s fadeIn;display:flex;position:fixed;inset:0}.lpl-modal{background:var(--l-raised);border:1px solid var(--l-line);width:min(440px,92vw);box-shadow:var(--l-shadow);border-radius:16px;flex-direction:column;gap:12px;padding:24px;display:flex}.lpl-modal-t{color:var(--l-ink);letter-spacing:-.02em;font-size:19px;font-weight:600}.lpl-modal-d{color:var(--l-mut);font-size:13.5px;line-height:1.55}.lpl-modal input{border:1px solid var(--l-line-strong);color:var(--l-ink);background:var(--l-surface);border-radius:8px;padding:10px 12px;font-family:inherit;font-size:14px}.lpl-modal input:focus{border-color:var(--l-protected);outline:none}.lpl-modal-row{gap:10px;margin-top:4px;display:flex}.lpl-modal-ok{color:var(--l-ink);background:#e8f5ed;border-radius:8px;padding:8px 12px;font-size:12.5px}.lpl-step-n{background:var(--l-forest);color:#eaf7ef;border-radius:99px;justify-content:center;align-items:center;width:26px;height:26px;margin-bottom:2px;font-size:13px;font-weight:600;display:inline-flex}.ob-wrap{background:var(--bg);grid-template-columns:minmax(480px,46%) 1fr;min-height:100vh;display:grid}@media (width<=960px){.ob-wrap{grid-template-columns:1fr}.ob-art{display:none}}.ob-panel{background:var(--surface);border-right:1px solid var(--line);flex-direction:column;padding:24px 48px 28px;display:flex}.ob-stage{flex-direction:column;flex:1;justify-content:center;max-width:560px;display:flex}.ob-step{animation:riseIn .26s var(--ease)}.ob-eyebrow{font-family:var(--font-mono);letter-spacing:.14em;text-transform:uppercase;color:var(--brand-ink);align-items:center;gap:8px;margin-bottom:16px;font-size:11px;font-weight:600;display:inline-flex}.ob-eyebrow-dot{background:var(--brand);border-radius:99px;width:5px;height:5px;animation:2s ease-in-out infinite lampPulse}.ob-h1{font-family:var(--font-display);letter-spacing:-.025em;margin:0 0 12px;font-size:clamp(30px,3.4vw,42px);font-weight:650;line-height:1.08}.ob-h1 em{color:var(--brand-ink);font-style:normal}.ob-sub{color:var(--ink-2);max-width:52ch;margin:0 0 26px;font-size:15px;line-height:1.65}.ob-nav{justify-content:space-between;align-items:center;margin-top:34px;display:flex}.ob-textlink{cursor:pointer;font-family:inherit;font-size:inherit;color:var(--brand-ink);background:0 0;border:none;padding:0}.ob-textlink:hover{text-decoration:underline}.ob-art{background:#101613;align-items:center;display:flex;position:relative;overflow:hidden}.ob-art:before{content:"";background:radial-gradient(70% 50% at 50% 0,#34c98b17,#0000 70%);position:absolute;inset:0}.ob-art-inner{flex-direction:column;gap:26px;width:100%;padding:48px min(6vw,72px);display:flex;position:relative}.ob-wow{max-width:380px}.ob-wow-eyebrow{font-family:var(--font-mono);letter-spacing:.12em;text-transform:uppercase;color:#7d9186;margin-bottom:10px;font-size:10.5px}.ob-wow-n{font-family:var(--font-display);letter-spacing:-.03em;color:#5fe0ad;font-size:56px;font-weight:650;line-height:1}.ob-wow-n span{color:#7d9186;font-size:26px}.ob-wow-d{color:#a6b3ab;margin-top:10px;font-size:13.5px;line-height:1.6}.ob-shot{border:1px solid #e7ede91f;border-radius:12px;overflow:hidden;box-shadow:0 30px 80px #00000073}.ob-shot img{width:100%;height:auto;display:block}.lpl-weekone{border-top:1px solid var(--l-line);flex-direction:column;display:flex}.lpl-wo-row{border-bottom:1px solid var(--l-line);grid-template-columns:minmax(0,1fr) 34px minmax(0,1fr);align-items:baseline;gap:10px;padding:16px 4px;font-size:15px;line-height:1.5;display:grid}@media (width<=700px){.lpl-wo-row{grid-template-columns:1fr}.lpl-wo-arrow{display:none}}.lpl-wo-before{color:var(--l-mut)}.lpl-wo-arrow{color:var(--l-protected);text-align:center}.lpl-wo-after{color:var(--l-ink);font-weight:500}.ob-dots{gap:5px;margin-left:10px;display:inline-flex}.ob-dots i{background:var(--line-2);border-radius:99px;width:5px;height:5px}.ob-dots i.on{background:var(--brand)}.ob-dots i.done{background:var(--brand-soft)}.lpl-pill{white-space:nowrap}@media (width<=640px){.lpl-nav-links a,.lpl-nav-links .lpl-menubtn,.lpl-nav-links .lpl-ghostlink{display:none}.lpl-nav-links{gap:10px}.lpl-hero{padding-top:140px}.lpl-desktop-br{display:none}.lpl-hero-ctas .lpl-pill-lg,.lpl-hero-ctas .lpl-ghost{text-align:center;flex:auto}}@media print{.sidebar,.topbar,.no-print{display:none!important}.page{max-width:none;padding:0}body{background:#fff}.card{box-shadow:none}}body{line-height:1.6}.nav-section{margin-bottom:6px}.nav-eyebrow{letter-spacing:.08em;text-transform:uppercase;color:var(--ink-3);padding:12px 10px 4px;font-size:10.5px;font-weight:650}.nav-item{letter-spacing:-.01em}

diff --git a/index.html b/index.html
@@ -26,8 +26,8 @@
       href="https://fonts.googleapis.com/css2?family=Inter:wght@800&family=Wix+Madefor+Text:wght@400;500;600;700;800&family=IBM+Plex+Mono:ital,wght@0,400;0,450;0,500;0,600;1,400&display=swap"
       rel="stylesheet"
     />
-    <script type="module" crossorigin src="./assets/index-DnHoI7-J.js"></script>
-    <link rel="stylesheet" crossorigin href="./assets/index-C9CXljGI.css">
+    <script type="module" crossorigin src="./assets/index-Dz0hFBYL.js"></script>
+    <link rel="stylesheet" crossorigin href="./assets/index-Cmy8_mK4.css">
   </head>
   <body>
     <div id="root"></div>
